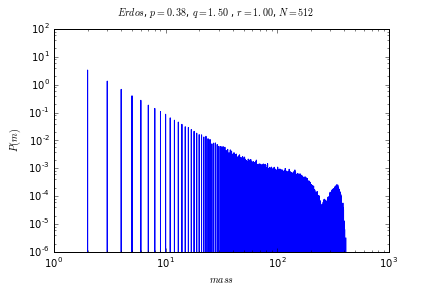
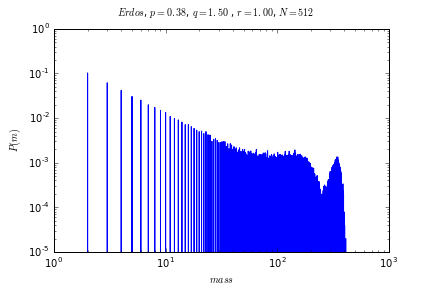
"probability to prob density crisis" fixed!

diff --git a/binned Data Plot.py b/binned Data Plot.py
@@ -46,13 +46,13 @@ rrange = [ data.pop(0) for i in range(q_size)]
 
 data =( np.array(data) )
 #"""
+for nindex in [7]:
 #for nindex in range(n_size):
-for nindex in range(n_size):
     n = nrange[nindex]
     current_data = data[nindex*runNum : (nindex+1)*runNum]
     binned_data =( binned(current_data, 1, np.max(current_data), 200000, log = True,returnwidth = True ) )
-    binned_data[1] /= (n * runNum) #normalizing the bin numbers to one to create the probabiltly.
-    binned_data[1] /= (binned_data[2]) #changing the probabilty distribution to the probability density.
+    binned_data[1] /= (runNum) #normalizing the bin numbers to one to create the probabiltly.
+    binned_data[1] /= (binned_data[2]+1) #changing the probabilty distribution to the probability density.
     
     #plt.bar(binned_data[0], binned_data[1], binned_data[2])
     plt.plot(binned_data[0], binned_data[1] )
@@ -83,7 +83,7 @@ for nindex in range(n_size):
     #"""
     #in this part we found the slope of the bins in the left part of the plot.
     
-    cons = 160000 #cons is the largest value of x which the linear behaviour on the loglog plot continues. also depends on the number of the bins (binNum).
+    cons = 100000 #cons is the largest value of x which the linear behaviour on the loglog plot continues. also depends on the number of the bins (binNum).
     x = binned_data[0,:cons]
     y = binned_data[1,:cons]
     
